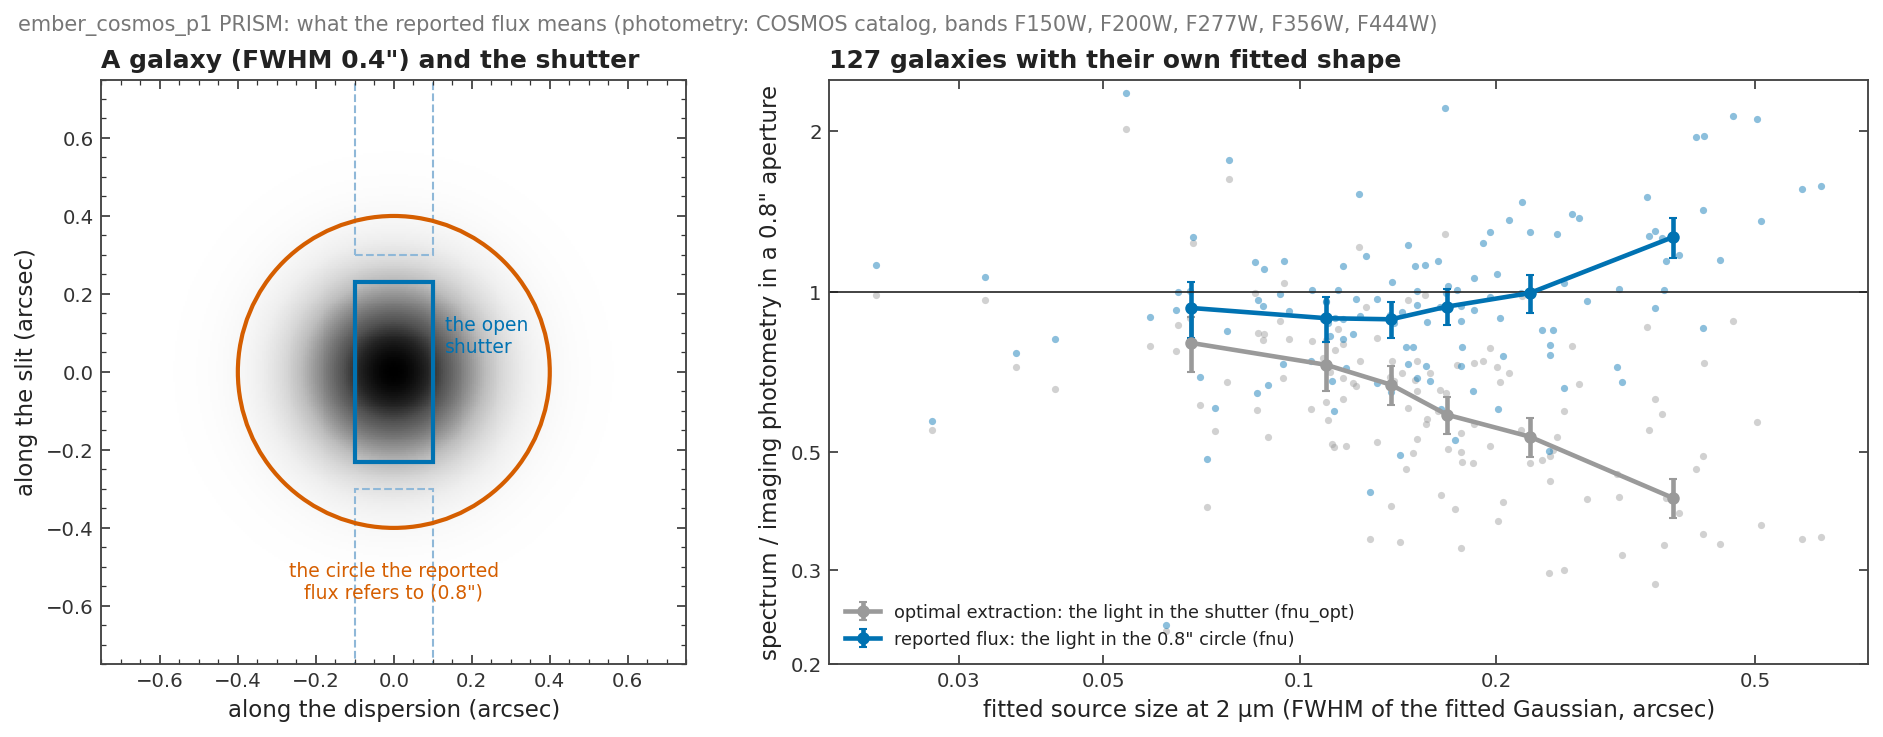
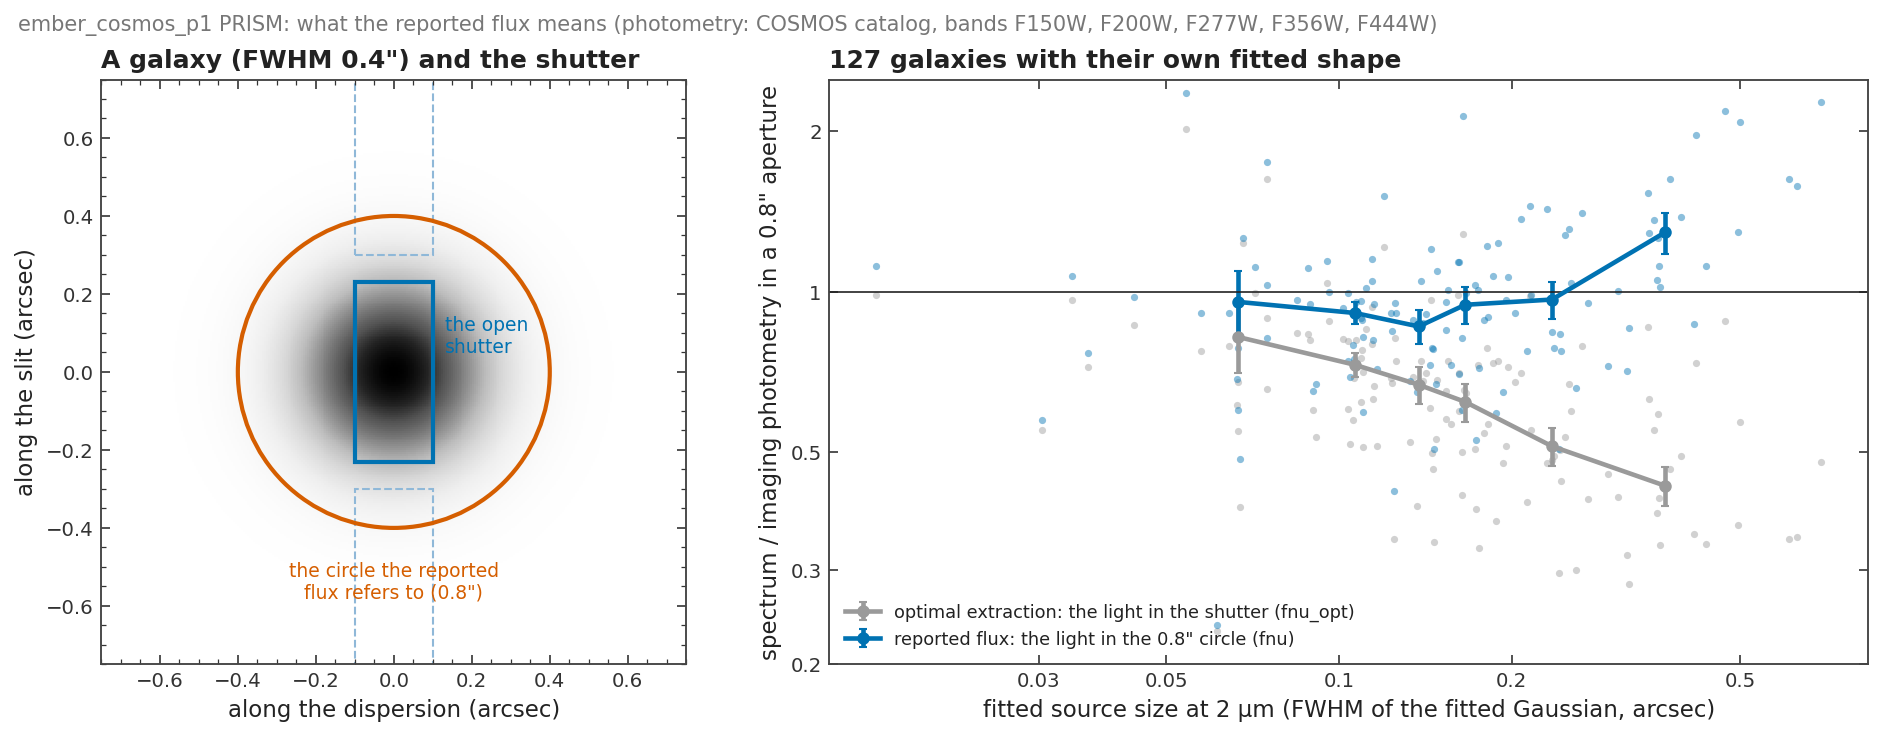
docs: stage 3 figures redrawn from the FIT_VERSION 8 / optics r8 p1 products (own clone docs_p1)
Claude-Session: https://claude.ai/code/session_019a5zApS9efdBBmtmyCqmCd

diff --git a/scripts/docs/nirspec/fig_mbkg_spectrum.py b/scripts/docs/nirspec/fig_mbkg_spectrum.py
@@ -69,6 +69,6 @@ ax.set_ylabel('flux density (µJy)')
 ax.set_title('the two spectra')
 ax.legend(loc='upper left', fontsize=8.5)
 fig.suptitle(f'{args.obs} {args.grating.split("_")[0].upper()}, source {args.source} (FWHM '
-             f'{2.355 * 0.46 * float(H.get("PFWIDTH", np.nan)):.2f}"): the nods subtract part of the galaxy; '
-             'the profile fit accounts for it, and the master-background spectrum does not need to', x=0.01, ha='left', fontsize=10, color=C.MUTED)
+             f'{2.355 * 0.46 * float(H.get("PFWIDTH", np.nan)):.2f}"): nod subtraction removes part of the '
+             'galaxy (self-subtraction), which the extraction models; master-background subtraction avoids it', x=0.01, ha='left', fontsize=10, color=C.MUTED)
 C.save(fig, args, 'mbkg_spectrum.png')
